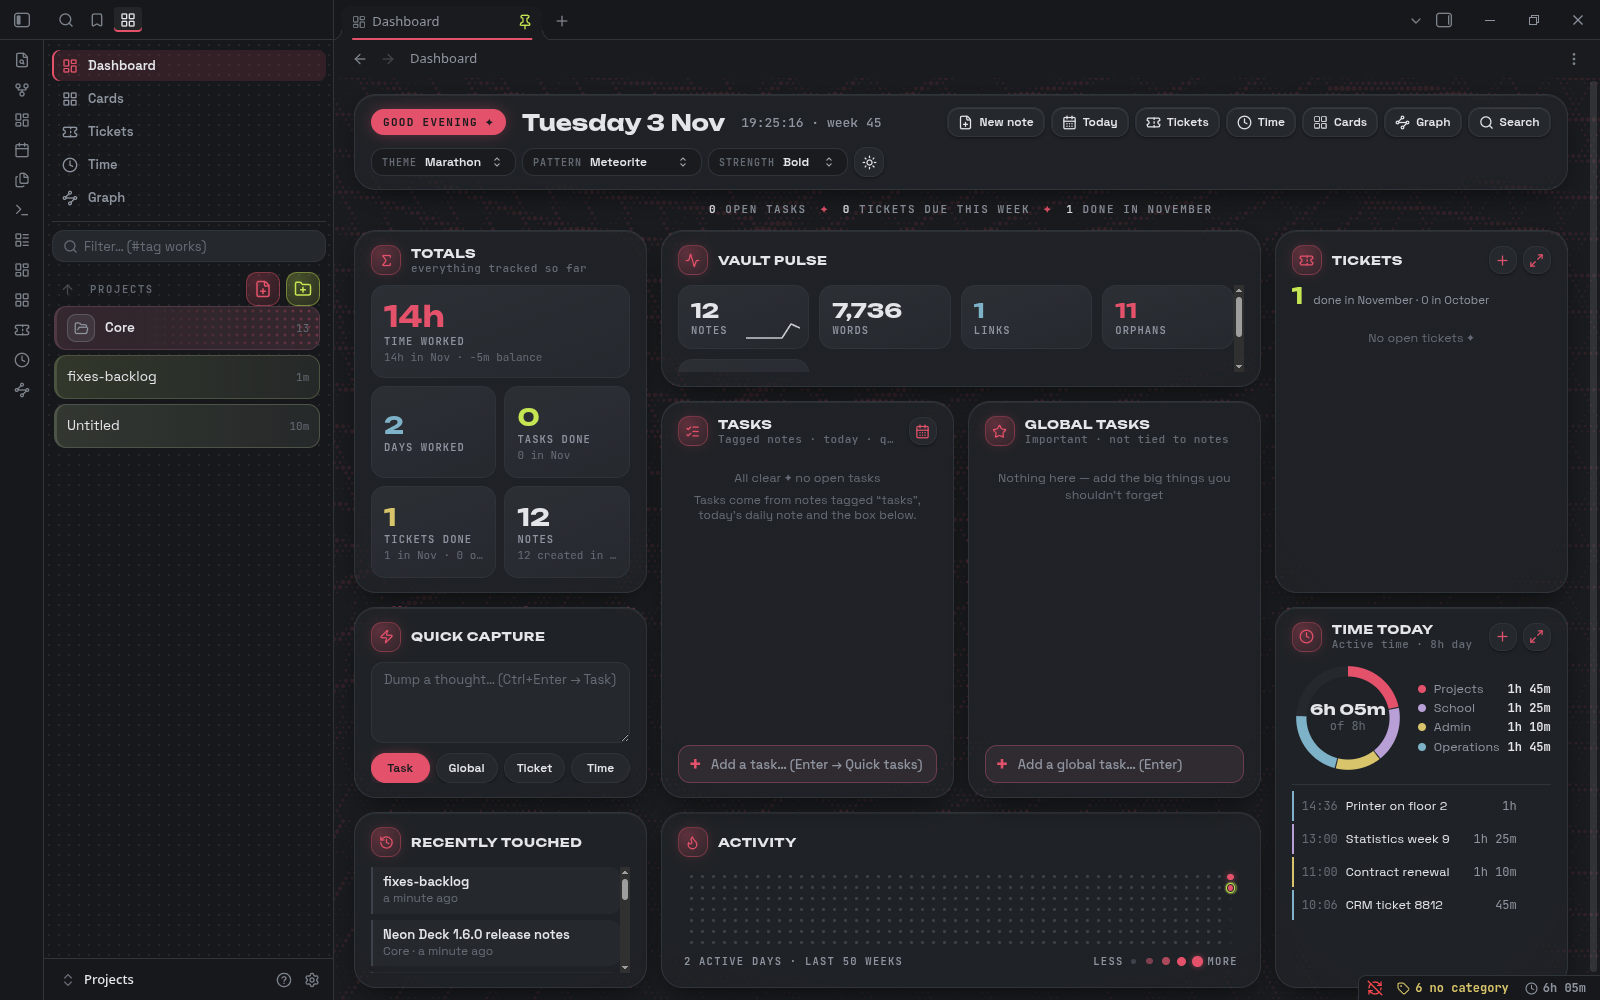
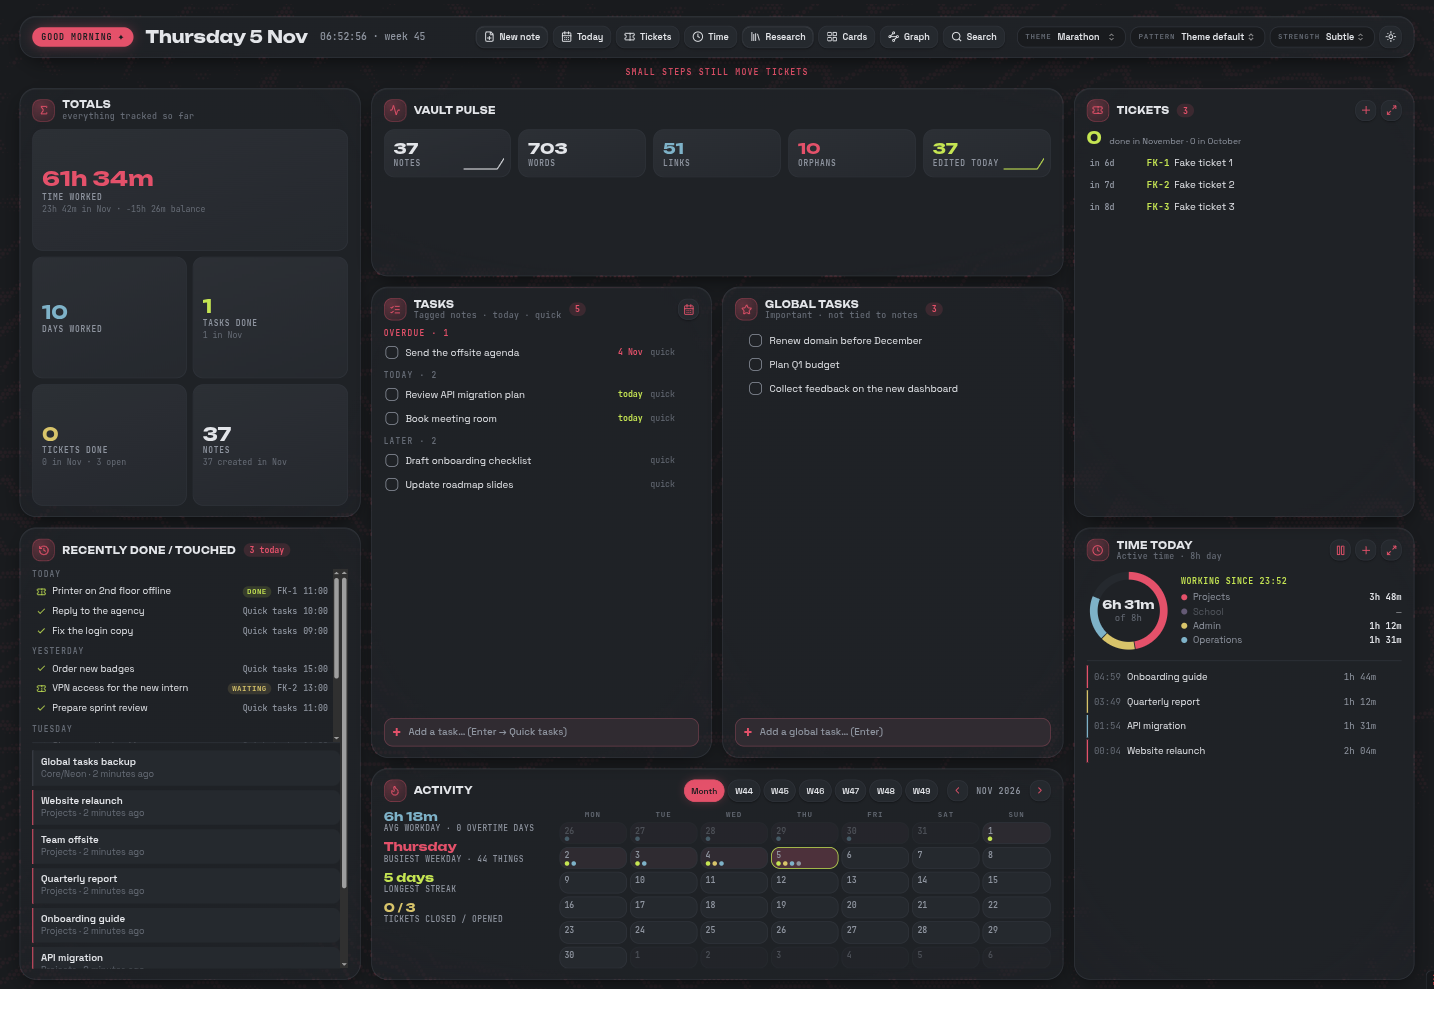
New screenshots (2.0, made-up data); fix Activity refresh and false safe mode
- screenshots retaken in a test vault with made-up data: dashboard, Time tab, Time widget,
  Research tab (new)
- Activity calendar now redraws when a module reports activity (it only updated the
  Recently done log) and when Time offers its daily totals after the dashboard drew
- safe mode: a normal unload within 3 s of starting (quick reload) was counted as a crash and the
  next start had every module off; a clean unload now marks the start as done

diff --git a/src/kernel/mother.js b/src/kernel/mother.js
@@ -22,10 +22,17 @@ class NeonMother extends Plugin {
       new Notice(crashed ? 'Neon Deck did not finish starting last time: safe mode, modules are off. Turn them on in settings.' : 'Neon Deck safe mode: modules are off.', 0);
     } else for (const m of NEON_MODULES) await this.start(m);
     // modules finish starting asynchronously: only call the start done once the workspace is ready
-    this.app.workspace.onLayoutReady(() => window.setTimeout(() => {
-      this.state.starting = false;
-      this.writeState();
-    }, 3000));
+    this.app.workspace.onLayoutReady(() => (this.doneTimer = window.setTimeout(() => this.startDone(), 3000)));
+  }
+  onunload() {
+    // a normal unload (quit, reload, switched off) is not a crash, however soon after the start
+    window.clearTimeout(this.doneTimer);
+    this.startDone();
+  }
+  startDone() {
+    if (!this.state.starting) return;
+    this.state.starting = false;
+    this.writeState();
   }
   /** Core API for the modules (same object Neon Deck 1.x exposed). */
   get api() {

diff --git a/src/deck/dashboard.js b/src/deck/dashboard.js
@@ -97,7 +97,8 @@ class DashboardView extends ItemView {
     this.registerEvent(this.app.workspace.on('neon-deck:slots-changed', () => this.mountSlots()));
     // Task, Ticket, Time… buttons arrive as the other Neon plugins load
     this.registerEvent(this.app.workspace.on('neon-deck:captures-changed', () => this.capRow && this.renderCaptureTargets()));
-    this.registerEvent(this.app.workspace.on('neon-deck:activity-changed', debounce(() => this.lastData && this.renderRecent(this.lastData), 200, true)));
+    // a module offered new activity (ticks, ticket changes) or started late: the log and the Activity calendar both follow
+    this.registerEvent(this.app.workspace.on('neon-deck:activity-changed', debounce(() => this.lastData && (this.renderRecent(this.lastData), this.renderHeat(this.lastData)), 200, true)));
     this.registerEvent(
       this.app.workspace.on(
         'neon-deck:facts-changed',

diff --git a/src/time/plugin.js b/src/time/plugin.js
@@ -186,6 +186,7 @@ class NeonTime extends Plugin {
       const s = this.summary(key, key === moment().format('YYYY-MM-DD'));
       return { worked: s.total, target: s.target, over: s.over, entries: this.entriesOf(key, false).map((e) => ({ start: e.start, min: entryMin(e), text: e.note || (e.path ? e.path.split('/').pop().replace(/\.md$/, '') : CAT_LABEL[e.cat] || 'Time') })) };
     });
+    if (api.activityChanged) api.activityChanged(); // the Activity card can now show worked time
     api.registerWeekLine('time', (start, end) => {
       const by = {};
       let over = 0;

diff --git a/README.md b/README.md
@@ -84,6 +84,8 @@ Since 2.0 these are **modules of one plugin**. Neon Deck is the core; the others
 - **Link suggestions:** in a research note, the status bar offers to link words that match other research note titles.
 - Research notes are left out of work time by default (`untracked: true`).
 
+![Research tab](docs/screenshots/research.png)
+
 ## Install
 
 Neon Deck isn't in the Community plugins list yet. Install it by hand:
